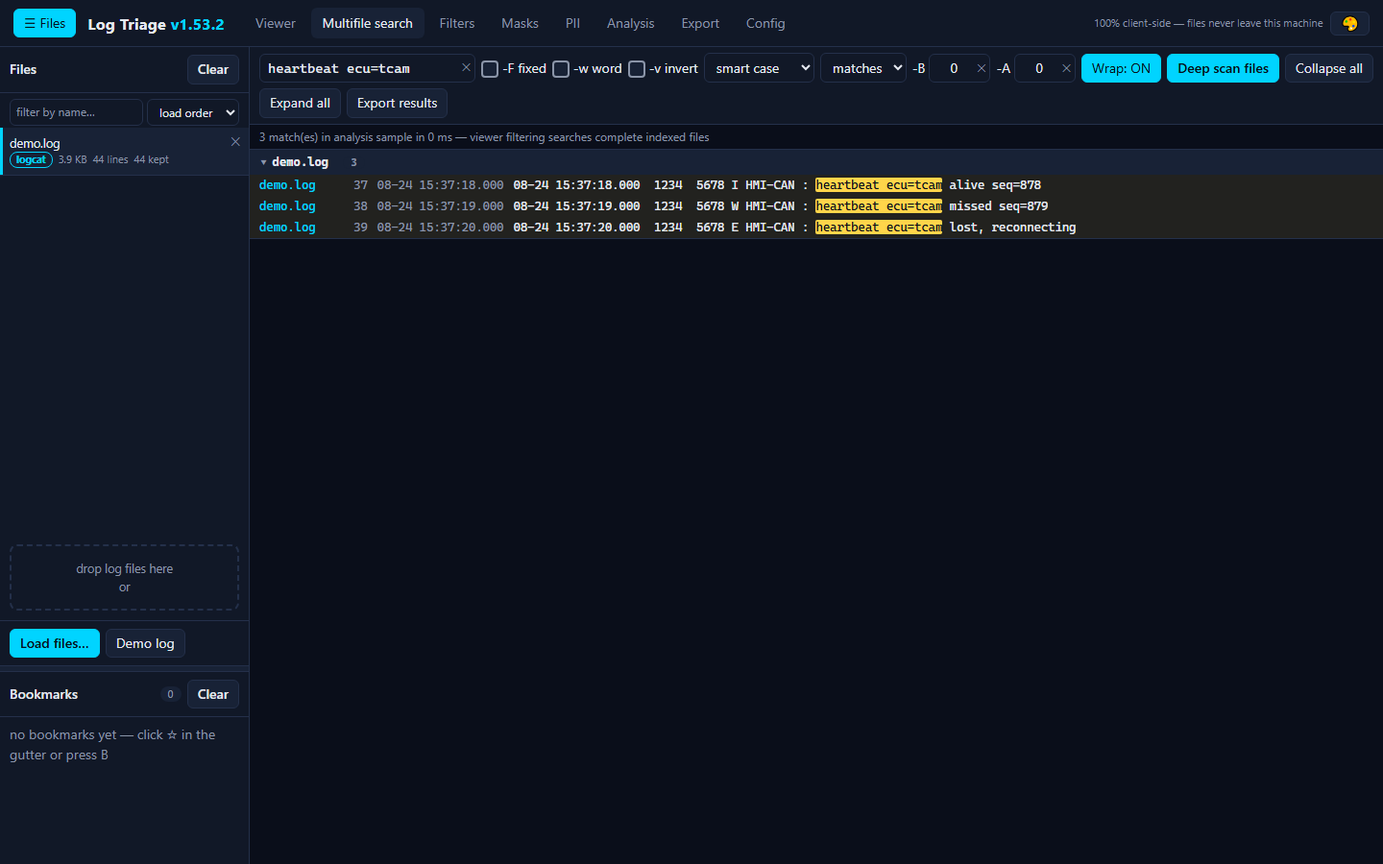
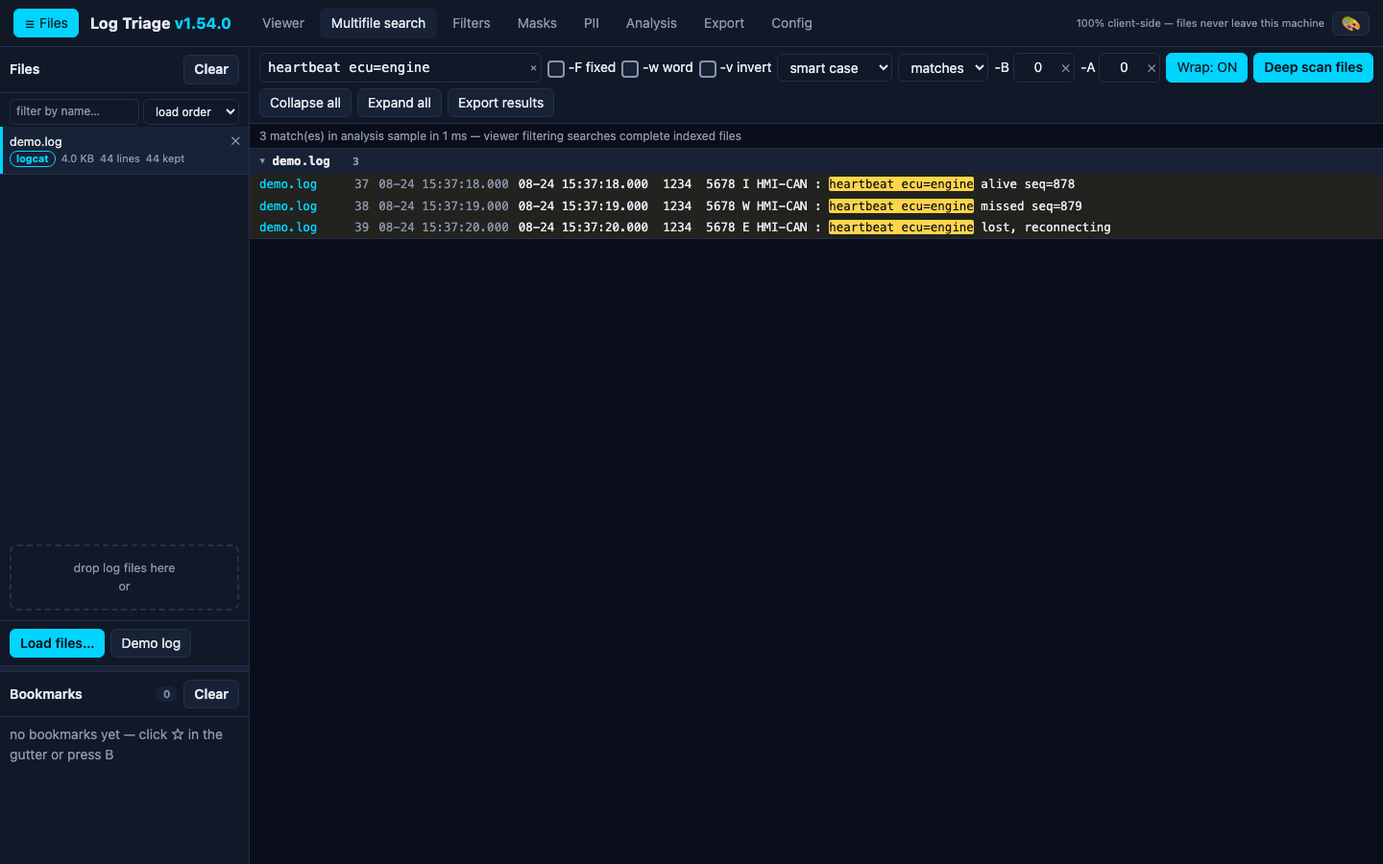
chore(repo): scrub internal project names and example identifiers
Replace the internal project/device branding (TCAM, kmesglog, umdplog,
lotus, driver.jung) across docs, source comments, fixtures, tools, and
the inlined selftest cases with generic equivalents, and swap the one
check-digit-valid example VIN for a clearly synthetic one. The demo log
and screenshots are regenerated from the scrubbed fixtures and the
single-file bundle is rebuilt so no branded string ships in the artifact.

diff --git a/log-triage.html b/log-triage.html
@@ -3883,7 +3883,7 @@ const LT_PAGING_WORKER = "/* Log Triage — util.js: small pure helpers shared b
       return extract7z(data, depth, base, name, onProgress);
     }
     if (type === 'tar') {
-      // some devices ship gzip bytes under a .tar name (TCAM kmesglog_*.tar):
+      // some devices ship gzip bytes under a .tar name:
       // sniff the gzip magic and decompress before the tar parse
       if (data.length > 2 && data[0] === 0x1f && data[1] === 0x8b) {
         onProgress('decompressing ' + name + '…');
@@ -5767,7 +5767,7 @@ const LT_PAGING_WORKER = "/* Log Triage — util.js: small pure helpers shared b
   const SAMPLES = {
     vin: 'VIN YV4AB9CD12EF34567', iban: 'IBAN DE89370400440532013000', card: 'card 4111 1111 1111 1111',
     ssn: 'ssn 123-45-6789', phoneIntl: 'call +46 70 123 45 67', phoneUs: 'call (555) 123-4567',
-    imei: 'IMEI 350774129305118', email: 'mail driver.jung@lotus-tech.example', serial: 'serial SN-A1B2C3D4E5F6',
+    imei: 'IMEI 350774129305118', email: 'mail driver@corp.example', serial: 'serial SN-A1B2C3D4E5F6',
     mac: 'mac aa:bb:cc:11:22:33', ipv4Private: 'host 192.168.1.104', ipv4Public: 'host 203.0.113.77',
     ipv6: 'link fe80::7a8b:cafe:1234:5678', gnss: 'fix 48.858400, 2.294500',
     subscriberId: 'subscriberId=41011223344', ssid: 'ssid=AndroidShare_4821',
@@ -7647,15 +7647,15 @@ const LT_PAGING_WORKER = "/* Log Triage — util.js: small pure helpers shared b
     eq(SRC.maskLine('card 2224 8888 7777 6666 declined'), 'card [card] declined');
     // vin: digit-only 17-char storage timestamps stay intact
     eq(SRC.maskLine('[OTA]storage time[2026090306444571Z]'), '[OTA]storage time[2026090306444571Z]');
-    // vin: digit-led real VIN still masks (letter within the first 8 chars)
-    eq(SRC.maskLine('vin 1FTFW1ET5DFC10324 ok'), 'vin 1FT**********0324 ok');
+    // vin: digit-led synthetic VIN still masks (letter within the first 8 chars)
+    eq(SRC.maskLine('vin 1A2B3C4D5E6F70324 ok'), 'vin 1A2**********0324 ok');
     // imei: constant-digit config values stay intact
     eq(SRC.maskLine('const 000000000000000 set'), 'const 000000000000000 set');
     eq(SRC.maskLine('const 111111111111111 set'), 'const 111111111111111 set');
   });
 
   T('mask', 'email keeps first local char and TLD', () => {
-    eq(SRC.maskLine('rejected for driver.jung@lotus-tech.example'), 'rejected for d***@***.example');
+    eq(SRC.maskLine('rejected for driver@corp.example'), 'rejected for d***@***.example');
   });
 
   T('mask', 'device serial keeps SN- prefix', () => {
@@ -8544,19 +8544,19 @@ const LT_PAGING_WORKER = "/* Log Triage — util.js: small pure helpers shared b
   T('issues', 'issueScan masks snippets via the maskText option (mask before slice)', () => {
     const mask = (t) => SRC.maskLine(String(t));
     const found = SRC.issueScan(recs([
-      '09-11 22:14:01.100  1000  2000 E Auth    : token refresh failed, credential rejected for driver.jung@lotus-tech.example',
+      '09-11 22:14:01.100  1000  2000 E Auth    : token refresh failed, credential rejected for driver@corp.example',
     ]), GROUPS, (id) => id, mask);
     eq(found.length, 1, 'auth group matches');
-    ok(!found[0].snippet.includes('driver.jung@lotus-tech.example'), 'raw email never rendered');
+    ok(!found[0].snippet.includes('driver@corp.example'), 'raw email never rendered');
     ok(found[0].snippet.includes('d***@***.example'), 'masked email in snippet: ' + found[0].snippet);
     // default (no maskText) keeps the legacy identity behavior
     const plain = SRC.issueScan(recs([
-      '09-11 22:14:01.100  1000  2000 E Auth    : token refresh failed for driver.jung@lotus-tech.example',
+      '09-11 22:14:01.100  1000  2000 E Auth    : token refresh failed for driver@corp.example',
     ]), GROUPS, (id) => id);
-    ok(plain[0].snippet.includes('driver.jung@'), 'identity default keeps snippet as-is');
+    ok(plain[0].snippet.includes('driver@'), 'identity default keeps snippet as-is');
     // mask runs BEFORE the 110-char slice: an email starting at char 105 leaks nothing
     const long = SRC.issueScan(recs([
-      'credential rejected ' + 'x'.repeat(84) + ' driver.jung@lotus-tech.example tail',
+      'credential rejected ' + 'x'.repeat(84) + ' driver@corp.example tail',
     ]), GROUPS, (id) => id, mask);
     eq(long.length, 1);
     ok(!long[0].snippet.includes('driver'), 'no raw local-part fragment past the slice boundary');
@@ -8624,8 +8624,8 @@ const LT_PAGING_WORKER = "/* Log Triage — util.js: small pure helpers shared b
 
   T('issues', 'anr event-log entries and force-finishing are flagged', () => {
     const found = SRC.issueScan(recs([
-      'I am_anr : [0,com.lotus.hmi/.MainActivity,100,803627610]',
-      'W ActivityManager: Force finishing activity ActivityRecord{abc u0 com.lotus.hmi/.Main t42}',
+      'I am_anr : [0,com.example.hmi/.MainActivity,100,803627610]',
+      'W ActivityManager: Force finishing activity ActivityRecord{abc u0 com.example.hmi/.Main t42}',
     ]), GROUPS, (id) => id);
     eq(found.length, 2);
     ok(found.every((f) => f.kind === 'anr'));
@@ -8655,7 +8655,7 @@ const LT_PAGING_WORKER = "/* Log Triage — util.js: small pure helpers shared b
 
   T('issues', 'issue scan false-positive guards', () => {
     const found = SRC.issueScan(recs([
-      'ActivityManager: Start proc 1234:com.lotus.hmi/u0a12 for activity',
+      'ActivityManager: Start proc 1234:com.example.hmi/u0a12 for activity',
       'AudioService: playback resumed after temporary suspension of audio focus',
       'SensorHub: resumed sensor batching',
       'D WifiHal: scan interval wake-up alarm scheduled',
@@ -8691,7 +8691,7 @@ const LT_PAGING_WORKER = "/* Log Triage — util.js: small pure helpers shared b
 </script>
 <script>
 /* Embedded demo log fixture (also used by tests/). */
-const LT_DEMO_LOG = "08-24 15:37:01.123  1234  5678 I ActivityManager: Start proc 1234:com.lotus.hmi/u0a12 for activity\n08-24 15:37:01.456  1234  5678 D HMI-CAN : VIN read: YV4AB9CD12EF34567 from ECU gateway\n08-24 15:37:01.789  2231  2245 I Netd    : client connected, uid=1027\n08-24 15:37:02.001  4310  4310 D WifiService: associated with AP ssid=AndroidShare_4821 bssid=aa:bb:cc:11:22:33\n08-24 15:37:02.240  4310  4355 I DhcpClient: lease 192.168.1.104/24 gw 192.168.1.1 dns 10.20.30.40\n08-24 15:37:02.512  4310  4355 W NetworkMonitor: validation failed for https://ota.lotus-tech.example, retry 3\n08-24 15:37:03.000  8891  8902 E Auth    : token refresh failed, credential rejected for driver.jung@lotus-tech.example\n08-24 15:37:03.220  8891  8902 E Auth    : subscriberId=410112233445566 not provisioned\n08-24 15:37:03.500  5152  5199 D GNSS    : position fix lat=48.858400 lon=2.294500 acc=3.2m sats=11\n08-24 15:37:03.700  5152  5199 D GNSS    : position fix lat=48.858412°N, 2.294511°E acc=2.9m sats=12\n08-24 15:37:04.000  1201  1201 I Zygote  : Forked child process 9876\n08-24 15:37:04.100  9876  9876 D BT      : bonded device CC:DD:EE:FF:00:11 type LE\n08-24 15:37:05.000  9877  9900 I Modem   : IMEI reported 350774129305118, card state READY\n08-24 15:37:06.000  1234  5700 W View    : requestLayout() improperly called\n08-24 15:37:07.000  1234  5700 E CR_OTA  : download stalled url=https://ota.example/pkg v2.41.3\n08-24 15:37:08.000  1234  5710 E AndroidRuntime: FATAL EXCEPTION: main\n08-24 15:37:08.000  1234  5710 E AndroidRuntime: Process: com.lotus.hmi, PID: 1234\n08-24 15:37:08.000  1234  5710 E AndroidRuntime: java.lang.NullPointerException: attempt to invoke virtual method on a null object reference\n08-24 15:37:08.000  1234  5710 E AndroidRuntime:     at com.lotus.hmi.MainActivity.renderCluster(MainActivity.java:312)\n08-24 15:37:08.000  1234  5710 E AndroidRuntime:     at com.lotus.hmi.ClusterView.onDraw(ClusterView.java:88)\n08-24 15:37:08.000  1234  5710 E AndroidRuntime:     at android.view.View.draw(View.java:20340)\n08-24 15:37:08.100  1234  1234 I Process : Sending signal. PID: 1234 SIG: 9\n08-24 15:37:08.500  1000  1000 I ActivityManager: Process com.lotus.hmi has died\n08-24 15:37:09.000  1000  1000 W ActivityManager: Force stopping com.lotus.hmi appid=10112\n08-24 15:37:10.000  1000  1420 E am_proc_died: [0,10112,com.lotus.hmi]\n08-24 15:37:11.000  1000  1420 I ActivityManager: ANR in com.lotus.cluster (com.lotus.cluster/.ClusterService)\n08-24 15:37:11.100  1000  1420 E ActivityManager: Input dispatching timed out (Waiting to send key event because the focused window has not finished)\n08-24 15:37:12.000  2001  2100 D CarServ : vehicleId=YV4ZZZCD12EF34567 paired to phone +46 70 123 45 67\n08-24 15:37:12.300  2001  2100 D CarServ : finance contract DE89370400440532013000 validated\n08-24 15:37:12.600  2001  2100 W CarServ : card 4111 1111 1111 1111 declined by payment provider\n08-24 15:37:13.000  2001  2100 I CarServ : owner ssn 123-45-6789 verified against registry\n08-24 15:37:14.000  2001  2100 D Telematics: post to https://telematics.example/v2 retry left=2\n08-24 15:37:14.500  2001  2100 E Telematics: socket timeout after 30000ms host 203.0.113.77\n08-24 15:37:15.000  3333  3344 D SensorHub: calibration done, serial SN-A1B2C3D4E5F6 stored\n08-24 15:37:16.000  3333  3344 W SensorHub: watchdog, miss=1\n08-24 15:37:17.000  1234  5678 D HMI-CAN : heartbeat ecu=gateway alive seq=1201\n08-24 15:37:18.000  1234  5678 I HMI-CAN : heartbeat ecu=tcam alive seq=878\n08-24 15:37:19.000  1234  5678 W HMI-CAN : heartbeat ecu=tcam missed seq=879\n08-24 15:37:20.000  1234  5678 E HMI-CAN : heartbeat ecu=tcam lost, reconnecting\n08-24 15:37:21.000  4310  4355 I WifiService: CONNECTED bssid=aa:bb:cc:11:22:33 rssi=-52\n08-24 15:37:22.000  4310  4355 D IpManager: probing link, ipv6 fe80::7a8b:cafe:1234:5678%wlan0\n08-24 15:37:23.000  9999  9999 V RenderThread: 60fps jank=0.8ms\n08-24 15:37:24.000  9999  9999 D ClusterGL: frame 12345 drawn in 6.2ms\n08-24 15:37:25.000  1234  5678 I BootReceiver: boot completed at uptime 42s\n";
+const LT_DEMO_LOG = "08-24 15:37:01.123  1234  5678 I ActivityManager: Start proc 1234:com.example.hmi/u0a12 for activity\n08-24 15:37:01.456  1234  5678 D HMI-CAN : VIN read: YV4AB9CD12EF34567 from ECU gateway\n08-24 15:37:01.789  2231  2245 I Netd    : client connected, uid=1027\n08-24 15:37:02.001  4310  4310 D WifiService: associated with AP ssid=AndroidShare_4821 bssid=aa:bb:cc:11:22:33\n08-24 15:37:02.240  4310  4355 I DhcpClient: lease 192.168.1.104/24 gw 192.168.1.1 dns 10.20.30.40\n08-24 15:37:02.512  4310  4355 W NetworkMonitor: validation failed for https://ota.corp.example, retry 3\n08-24 15:37:03.000  8891  8902 E Auth    : token refresh failed, credential rejected for driver@corp.example\n08-24 15:37:03.220  8891  8902 E Auth    : subscriberId=410112233445566 not provisioned\n08-24 15:37:03.500  5152  5199 D GNSS    : position fix lat=48.858400 lon=2.294500 acc=3.2m sats=11\n08-24 15:37:03.700  5152  5199 D GNSS    : position fix lat=48.858412°N, 2.294511°E acc=2.9m sats=12\n08-24 15:37:04.000  1201  1201 I Zygote  : Forked child process 9876\n08-24 15:37:04.100  9876  9876 D BT      : bonded device CC:DD:EE:FF:00:11 type LE\n08-24 15:37:05.000  9877  9900 I Modem   : IMEI reported 350774129305118, card state READY\n08-24 15:37:06.000  1234  5700 W View    : requestLayout() improperly called\n08-24 15:37:07.000  1234  5700 E CR_OTA  : download stalled url=https://ota.example/pkg v2.41.3\n08-24 15:37:08.000  1234  5710 E AndroidRuntime: FATAL EXCEPTION: main\n08-24 15:37:08.000  1234  5710 E AndroidRuntime: Process: com.example.hmi, PID: 1234\n08-24 15:37:08.000  1234  5710 E AndroidRuntime: java.lang.NullPointerException: attempt to invoke virtual method on a null object reference\n08-24 15:37:08.000  1234  5710 E AndroidRuntime:     at com.example.hmi.MainActivity.renderCluster(MainActivity.java:312)\n08-24 15:37:08.000  1234  5710 E AndroidRuntime:     at com.example.hmi.ClusterView.onDraw(ClusterView.java:88)\n08-24 15:37:08.000  1234  5710 E AndroidRuntime:     at android.view.View.draw(View.java:20340)\n08-24 15:37:08.100  1234  1234 I Process : Sending signal. PID: 1234 SIG: 9\n08-24 15:37:08.500  1000  1000 I ActivityManager: Process com.example.hmi has died\n08-24 15:37:09.000  1000  1000 W ActivityManager: Force stopping com.example.hmi appid=10112\n08-24 15:37:10.000  1000  1420 E am_proc_died: [0,10112,com.example.hmi]\n08-24 15:37:11.000  1000  1420 I ActivityManager: ANR in com.example.cluster (com.example.cluster/.ClusterService)\n08-24 15:37:11.100  1000  1420 E ActivityManager: Input dispatching timed out (Waiting to send key event because the focused window has not finished)\n08-24 15:37:12.000  2001  2100 D CarServ : vehicleId=YV4ZZZCD12EF34567 paired to phone +46 70 123 45 67\n08-24 15:37:12.300  2001  2100 D CarServ : finance contract DE89370400440532013000 validated\n08-24 15:37:12.600  2001  2100 W CarServ : card 4111 1111 1111 1111 declined by payment provider\n08-24 15:37:13.000  2001  2100 I CarServ : owner ssn 123-45-6789 verified against registry\n08-24 15:37:14.000  2001  2100 D Telematics: post to https://telematics.example/v2 retry left=2\n08-24 15:37:14.500  2001  2100 E Telematics: socket timeout after 30000ms host 203.0.113.77\n08-24 15:37:15.000  3333  3344 D SensorHub: calibration done, serial SN-A1B2C3D4E5F6 stored\n08-24 15:37:16.000  3333  3344 W SensorHub: watchdog, miss=1\n08-24 15:37:17.000  1234  5678 D HMI-CAN : heartbeat ecu=gateway alive seq=1201\n08-24 15:37:18.000  1234  5678 I HMI-CAN : heartbeat ecu=engine alive seq=878\n08-24 15:37:19.000  1234  5678 W HMI-CAN : heartbeat ecu=engine missed seq=879\n08-24 15:37:20.000  1234  5678 E HMI-CAN : heartbeat ecu=engine lost, reconnecting\n08-24 15:37:21.000  4310  4355 I WifiService: CONNECTED bssid=aa:bb:cc:11:22:33 rssi=-52\n08-24 15:37:22.000  4310  4355 D IpManager: probing link, ipv6 fe80::7a8b:cafe:1234:5678%wlan0\n08-24 15:37:23.000  9999  9999 V RenderThread: 60fps jank=0.8ms\n08-24 15:37:24.000  9999  9999 D ClusterGL: frame 12345 drawn in 6.2ms\n08-24 15:37:25.000  1234  5678 I BootReceiver: boot completed at uptime 42s\n";
 </script>
 <div id="archive-progress"><div class="box"><div class="spinner"></div><div class="msg" id="archive-progress-msg">processing…</div></div></div>
 </body>

diff --git a/tests/core-cases.js b/tests/core-cases.js
@@ -358,15 +358,15 @@
     eq(SRC.maskLine('card 2224 8888 7777 6666 declined'), 'card [card] declined');
     // vin: digit-only 17-char storage timestamps stay intact
     eq(SRC.maskLine('[OTA]storage time[2026090306444571Z]'), '[OTA]storage time[2026090306444571Z]');
-    // vin: digit-led real VIN still masks (letter within the first 8 chars)
-    eq(SRC.maskLine('vin 1FTFW1ET5DFC10324 ok'), 'vin 1FT**********0324 ok');
+    // vin: digit-led synthetic VIN still masks (letter within the first 8 chars)
+    eq(SRC.maskLine('vin 1A2B3C4D5E6F70324 ok'), 'vin 1A2**********0324 ok');
     // imei: constant-digit config values stay intact
     eq(SRC.maskLine('const 000000000000000 set'), 'const 000000000000000 set');
     eq(SRC.maskLine('const 111111111111111 set'), 'const 111111111111111 set');
   });
 
   T('mask', 'email keeps first local char and TLD', () => {
-    eq(SRC.maskLine('rejected for driver.jung@lotus-tech.example'), 'rejected for d***@***.example');
+    eq(SRC.maskLine('rejected for driver@corp.example'), 'rejected for d***@***.example');
   });
 
   T('mask', 'device serial keeps SN- prefix', () => {
@@ -1255,19 +1255,19 @@
   T('issues', 'issueScan masks snippets via the maskText option (mask before slice)', () => {
     const mask = (t) => SRC.maskLine(String(t));
     const found = SRC.issueScan(recs([
-      '09-11 22:14:01.100  1000  2000 E Auth    : token refresh failed, credential rejected for driver.jung@lotus-tech.example',
+      '09-11 22:14:01.100  1000  2000 E Auth    : token refresh failed, credential rejected for driver@corp.example',
     ]), GROUPS, (id) => id, mask);
     eq(found.length, 1, 'auth group matches');
-    ok(!found[0].snippet.includes('driver.jung@lotus-tech.example'), 'raw email never rendered');
+    ok(!found[0].snippet.includes('driver@corp.example'), 'raw email never rendered');
     ok(found[0].snippet.includes('d***@***.example'), 'masked email in snippet: ' + found[0].snippet);
     // default (no maskText) keeps the legacy identity behavior
     const plain = SRC.issueScan(recs([
-      '09-11 22:14:01.100  1000  2000 E Auth    : token refresh failed for driver.jung@lotus-tech.example',
+      '09-11 22:14:01.100  1000  2000 E Auth    : token refresh failed for driver@corp.example',
     ]), GROUPS, (id) => id);
-    ok(plain[0].snippet.includes('driver.jung@'), 'identity default keeps snippet as-is');
+    ok(plain[0].snippet.includes('driver@'), 'identity default keeps snippet as-is');
     // mask runs BEFORE the 110-char slice: an email starting at char 105 leaks nothing
     const long = SRC.issueScan(recs([
-      'credential rejected ' + 'x'.repeat(84) + ' driver.jung@lotus-tech.example tail',
+      'credential rejected ' + 'x'.repeat(84) + ' driver@corp.example tail',
     ]), GROUPS, (id) => id, mask);
     eq(long.length, 1);
     ok(!long[0].snippet.includes('driver'), 'no raw local-part fragment past the slice boundary');
@@ -1335,8 +1335,8 @@
 
   T('issues', 'anr event-log entries and force-finishing are flagged', () => {
     const found = SRC.issueScan(recs([
-      'I am_anr : [0,com.lotus.hmi/.MainActivity,100,803627610]',
-      'W ActivityManager: Force finishing activity ActivityRecord{abc u0 com.lotus.hmi/.Main t42}',
+      'I am_anr : [0,com.example.hmi/.MainActivity,100,803627610]',
+      'W ActivityManager: Force finishing activity ActivityRecord{abc u0 com.example.hmi/.Main t42}',
     ]), GROUPS, (id) => id);
     eq(found.length, 2);
     ok(found.every((f) => f.kind === 'anr'));
@@ -1366,7 +1366,7 @@
 
   T('issues', 'issue scan false-positive guards', () => {
     const found = SRC.issueScan(recs([
-      'ActivityManager: Start proc 1234:com.lotus.hmi/u0a12 for activity',
+      'ActivityManager: Start proc 1234:com.example.hmi/u0a12 for activity',
       'AudioService: playback resumed after temporary suspension of audio focus',
       'SensorHub: resumed sensor batching',
       'D WifiHal: scan interval wake-up alarm scheduled',

diff --git a/tests/archive.test.js b/tests/archive.test.js
@@ -497,23 +497,23 @@ test('extractArchive unpacks tar and nested tar.gz entries', { skip: !hasStreams
 });
 
 test('extractArchive unpacks a top-level tar.gz and tgz', { skip: !hasStreams }, async () => {
-  const tarBuf = ar.writeTar([{ name: 'tcam.log', data: new TextEncoder().encode('tcam backup line\n') }]);
+  const tarBuf = ar.writeTar([{ name: 'device.log', data: new TextEncoder().encode('device backup line\n') }]);
   for (const name of ['217.tar.gz', '217.tgz']) {
     const gz = await ar.gzipData(tarBuf);
     const out = await ar.extractArchive(name, gz);
     assert.strictEqual(out.length, 1, name + ': one entry');
-    assert.strictEqual(out[0].name, '217/tcam.log', name + ': path prefix kept');
-    assert.strictEqual(new TextDecoder().decode(out[0].data), 'tcam backup line\n');
+    assert.strictEqual(out[0].name, '217/device.log', name + ': path prefix kept');
+    assert.strictEqual(new TextDecoder().decode(out[0].data), 'device backup line\n');
   }
 });
 
 test('extractArchive decompresses a gzip payload misnamed .tar', { skip: !hasStreams }, async () => {
-  // some devices (e.g. TCAM kmesglog_*.tar) ship gzip bytes with a .tar name
-  const tarBuf = ar.writeTar([{ name: 'kmesg.log', data: new TextEncoder().encode('kernel ring buffer line\n') }]);
+  // some devices ship gzip bytes with a .tar name
+  const tarBuf = ar.writeTar([{ name: 'kernel.log', data: new TextEncoder().encode('kernel ring buffer line\n') }]);
   const gz = await ar.gzipData(tarBuf);
-  const out = await ar.extractArchive('kmesglog_2026-05-20-17-41-41_0006.tar', gz);
+  const out = await ar.extractArchive('kernellog_2026-05-20.tar', gz);
   assert.strictEqual(out.length, 1);
-  assert.strictEqual(out[0].name, 'kmesglog_2026-05-20-17-41-41_0006/kmesg.log');
+  assert.strictEqual(out[0].name, 'kernellog_2026-05-20/kernel.log');
   assert.strictEqual(new TextDecoder().decode(out[0].data), 'kernel ring buffer line\n');
 });
 

diff --git a/src/app.js b/src/app.js
@@ -1486,7 +1486,7 @@
   const SAMPLES = {
     vin: 'VIN YV4AB9CD12EF34567', iban: 'IBAN DE89370400440532013000', card: 'card 4111 1111 1111 1111',
     ssn: 'ssn 123-45-6789', phoneIntl: 'call +46 70 123 45 67', phoneUs: 'call (555) 123-4567',
-    imei: 'IMEI 350774129305118', email: 'mail driver.jung@lotus-tech.example', serial: 'serial SN-A1B2C3D4E5F6',
+    imei: 'IMEI 350774129305118', email: 'mail driver@corp.example', serial: 'serial SN-A1B2C3D4E5F6',
     mac: 'mac aa:bb:cc:11:22:33', ipv4Private: 'host 192.168.1.104', ipv4Public: 'host 203.0.113.77',
     ipv6: 'link fe80::7a8b:cafe:1234:5678', gnss: 'fix 48.858400, 2.294500',
     subscriberId: 'subscriberId=41011223344', ssid: 'ssid=AndroidShare_4821',

diff --git a/src/archive.js b/src/archive.js
@@ -467,7 +467,7 @@
       return extract7z(data, depth, base, name, onProgress);
     }
     if (type === 'tar') {
-      // some devices ship gzip bytes under a .tar name (TCAM kmesglog_*.tar):
+      // some devices ship gzip bytes under a .tar name:
       // sniff the gzip magic and decompress before the tar parse
       if (data.length > 2 && data[0] === 0x1f && data[1] === 0x8b) {
         onProgress('decompressing ' + name + '…');

diff --git a/docs/test-plan.md b/docs/test-plan.md
@@ -144,13 +144,13 @@ App suite (99 specs) — coverage includes:
 31.7 Detail drawer: `pid / tid` share one line; on a PII line the body is the masked text labeled "masked" with a ▸/▾ chevron that lazily expands the raw line (collapsed by default, absent from the DOM while collapsed) and removes it again on collapse; on a PII-free line the body is the raw text labeled "raw" with no chevron; the toolbar Drawer toggle (on by default) gates the drawer entirely.
 32. Drag-and-drop of a file onto the dropzone ingests it exactly once (the drop handler stops propagation; the body-level drop handler is for drops elsewhere on the page). Drag-and-drop of a FOLDER ingests the contained files recursively (mocked `webkitGetAsEntry` tree with a nested subfolder and batched `readEntries`): folder-relative names are kept, the folder pseudo-entry itself is not ingested. Dropping MULTIPLE folders plus a loose file in one drop ingests all of them (two folders, a nested subfolder, and a loose file = 5 files / 5 lines).
 33. Real Android bugreport zip (local file, not in CI): 155 MB zip with 315 entries incl. a 1.5 GB dumpstate_board.bin — the board dump is stream-converted to a capped 64 MB `dumpstate_board.bin.log` text entry (newest text, CRC verified, no NUL bytes), ~314 text entries load recursively (301+ file items), and the bugreport text is searchable (verified locally against bugreport-gecko_gas zips; also validated in Node: 555,930-line 88 MB merged logcat batch ingests with exact counts; Node re-verification of the 1.6 GB board dump: 328 entries in ~35 s, ~900 MB peak RSS, 666k log lines extracted).
-34. Real TCAM log set (local folder, not in CI): 241 archives (`backup/*.tar.gz` × 172, `umdplog/kmesglog_*.tar` × 68 misnamed-gzip, plus 1) all extract in Node — 4,502 entries / 6.88 GB expanded text in ~26 s, zero failures; the kmesglog tars decompress via gzip-magic sniffing and yield kernel ring-buffer logs.
+34. Real-world local log set (local folder, not in CI): 241 archives (`backup/*.tar.gz` × 172, misnamed-gzip device `*.tar` × 68, plus 1) all extract in Node — 4,502 entries / 6.88 GB expanded text in ~26 s, zero failures; the misnamed tars decompress via gzip-magic sniffing and yield kernel ring-buffer logs.
 35. Real 88 MB / 555,930-line logcat through the actual paging-worker code path (Node harness, `tests/tmp/large-file-check.cjs`): index in ~2.5 s with exact level counters; unfiltered view = all 555,930 lines (previously capped at ~100k); quick filter re-stream returns every match (236 for the reported SEAT_OCCU/Bluetooth pattern) in ~2 s; page fetch ~20 ms; go-to-line 450002 resolves to its view position in ~0.7 s.
 36. Color highlighter editor: the pattern field accepts real click/typing input and retains focus; literal matching colors text, row mode tints the complete row, a one-click palette color is visibly selected, the shown-line count is unchanged, and the rule/color survive reload.
 37. Highlighter config round trip: JSON export preserves every rule field (`name`, `pattern`, `caseSensitive`, `action`, `enabled`, `matchMode`, `target`, `color`) and import restores the same editor state.
 38. Rule-editor layout regressions: disabling a rule while Filters is visible must return to a Viewer filled beyond the five hidden-tab overscan rows, and repeated pattern-field focus/edit/rerender cycles must not change the input or column width.
 39. dlt-viewer text export (`tests/fixtures/dlt-viewer-sample.txt`, 42 messages): detected as format `dlt` (badge), chips count every level exactly (F1, V4 among them), the drawer on the VIN line shows tag `appid:ctid` and the session id as pid, masking applies to the raw VIN in the drawer, the sanitized `.log` export carries only the masked VIN, and the quick filter narrows to the bridge11 lines. Parser/detection semantics (including false-positive pins against logcat/syslog/ISO/CLF/MM-DD in both directions and the mode-word/args payload boundary) plus GNSS key-value pairs (v1.44.2: lat=/lon: token separators mask, non-coordinate words stay safe; the colon guard keeps DLT time columns intact — on the 31 real exports the old rule ate 13,893 lines, the guarded rule hits only the 1,831 genuine payload coordinates). Mask-rule guards (v1.44.4, `[mask] rule guards` case): the card rule requires a plausible IIN first digit (2-6) so ECUC config quads never mask (2,444 false-positive lines → 0), the VIN rule requires a letter within its first 8 characters so digit-only storage timestamps never mask, and the IMEI rule rejects 15 identical digits; on the real exports total masked lines dropped 8,726 → 6,296 with every remaining hit a true identifier (audit tool: `tests/tmp/mask-audit.cjs`) live in the shared self-test cases (`[detect]`, `[ts]`, `[parse]` DLT entries).
-40. Real dlt-viewer text exports (local folder, not in CI): 31 converted TCAM `.dlt` capture files validated via `node tests/tmp/dlt-real-check.cjs [dir]` (harness untracked like `large-file-check.cjs`; default dir `C:/Users/Chimin.Jung/Downloads/DLT`) — 2,061,084 / 2,061,084 lines parsed as structured records (100%, zero fallback), detection `dlt` at confidence 1.00 on every file, level tally I 997,399 / F 826,574 / E 236,061 / W 1,050 (the ECUC configuration logs genuinely are written at DLT fatal level, and this capture contains no debug/verbose/trace words). The exports are CRLF: the pipeline's trailing-CR strip in `byteLines`/`page`/`streamLines` is what the `$`-anchored dlt line regex relies on, mirroring every other format.
+40. Real dlt-viewer text exports (local folder, not in CI): 31 converted `.dlt` capture files validated via `node tests/tmp/dlt-real-check.cjs [dir]` (harness untracked like `large-file-check.cjs`; directory passed as an argument) — 2,061,084 / 2,061,084 lines parsed as structured records (100%, zero fallback), detection `dlt` at confidence 1.00 on every file, level tally I 997,399 / F 826,574 / E 236,061 / W 1,050 (the ECUC configuration logs genuinely are written at DLT fatal level, and this capture contains no debug/verbose/trace words). The exports are CRLF: the pipeline's trailing-CR strip in `byteLines`/`page`/`streamLines` is what the `$`-anchored dlt line regex relies on, mirroring every other format.
 41. Interactive PII census: census cards are buttons with `aria-expanded`; opening one shows the inline sample panel ("VIN · 2 matches · showing 2 example lines") with masked previews only (still masked while the viewer mask toggle is off), opening a second card closes the first and the panel head is scrolled into the viewport (a 1280×600 viewport pins the below-fold case), Enter toggles a focused card, a sample's "Show in viewer" jumps to the line (viewer tab, selected row, drawer). Shared self-test cases pin the model: per-match counting with single-sampled lines, the 25-sample cap with full counts, custom rules under their configured names, broken custom rules skipped, zero-count rules omitted, zero-length-match loop guard. Scope change with demo.log + a 27-VIN synthetic file: "All files" shows VIN · 29 matches capped at 25 rows, scoping to either file keeps the category open and rescopes counts; the VIN-only file renders exactly one card.
 42. Text encoding (v1.46.0, FR-2 AC-5): a BOM'd logcat file indexes with `utf8: true`, the BOM never reaches the parser (first record has its real timestamp, `firstLine` is clean), and a latin-1 file (0xE9 byte) flags `utf8: false` while lines still split and count (unit, `tests/paged.test.js`). E2e: the latin-1 file gets an `enc?` badge with an explanatory title in the files panel; a clean UTF-8 file loaded alongside gets none. `boardBinToText` keeps valid UTF-8 CJK runs (well-formed multi-byte sequences count toward the 80% printable bar) while runs with invalid high bytes are still rejected (unit, `tests/archive.test.js`).
 43. Analysis mask-toggle respect (v1.46.1, FR-9 AC-6): with Mask ON the demo analysis tab shows the masked email (d***@***.example) in issue-scan snippets and top-message shapes and the raw address nowhere in the tab; toggling Mask OFF and re-entering the tab shows the raw text (toggle honored, not always-masked); the shared self-test case pins issueScan maskText — including mask-before-slice for an email straddling the 110-char snippet boundary (no raw local-part fragment leaks).

diff --git a/README.md b/README.md
@@ -68,7 +68,7 @@ Highlighters are additive presentation rules: they never remove lines or change 
 - **Filter engine and color highlighters** — ordered rules support include (OR), exclude (subtractive), and additive highlighting. Highlight rules can use literal text or regex, paint matching text or the whole row, choose any color, and remain independent of the shown-line count. Rules persist in presets and configuration exports. Dynamic level chips are generated from the levels actually observed in each load, and an inclusive time range narrows the view by timestamp prefix comparison.
 - **Analysis tab** — level bars, top tags, top messages via pattern normalization (numbers/hex/UUIDs stripped to cluster similar lines), a canvas time histogram with y-axis gridlines and value ticks, x-axis time labels, and a hover tooltip (count + time range; device-pixel-ratio aware), issue scanning for crashes/ANRs/process deaths/connectivity/auth problems (the auth group also detects `failed password` and `password check failed`) plus built-in groups for suspend-to-RAM transitions and failures (kernel `PM: suspend entry/exit`, wake reasons, `Freeze of tasks` aborts, `abort_suspend`), native crash signals (`Fatal signal`, `crash_dump`, kernel panic), memory pressure (lmkd/lowmemorykiller/OOM), ANR event-log records (`am_anr`, `Force finishing`), binder transaction failures, SELinux denials (`avc: denied`, `SecurityException`), watchdog kills, thermal throttling/shutdown, storage exhaustion (`ENOSPC`, `INSTALL_FAILED`), boot loops/restart reasons, and modem subsystem restarts — 14 groups total, each individually toggleable and editable, an issue-scan rule editor (enable, edit kind and case-insensitive pattern, delete, add-rule, restore-defaults; bad patterns skipped safely; saved in state and presets), an interactive PII census (clickable per-rule cards with `aria-expanded` open an inline sample panel — counts cover every match while at most 25 always-masked example lines are listed per category, custom rules included, and each example's Show-in-viewer jumps to the line), and per-file comparison — all scopeable via a file selector (`All files (N)` or one file), with issue entries that click-jump to the line.
 - **Viewer** — paged virtualized rendering over every indexed line (500-row pages that grow into a seamless scroll — wheeling past a page edge appends or prepends the next page without a jump, the view stays bounded to a 5-page (2,500-row) sliding window, and the pager bar — First/Previous/page number/Next/Last and a matching-lines range — reflects the anchor page; the pager buttons, keyboard paging, go-to-line and result jumps still load exactly one page), **start/end-of-log bands** inside the scroll area (a "▲ start of …" band when the visible window includes the log's first line and a "▼ end of … — N lines" band when it includes the last matching line, per-file or merged, so pagination never leaves you guessing where the log begins or ends; with active filters the bands read "first/last match in … — source line N" instead of claiming physical file bounds, and their labels stay pinned into the visible viewport with long lines), a busy overlay with live percentages and Cancel covering indexing, filtering and page loads, merged-timeline and per-file views, wrap toggle with estimated heights corrected by measuring only rendered rows (extremely long lines display a 2,000-character preview with click-to-open full text in the drawer), six themes (Midnight default, Paper, Solarized Dark, Solarized Light, Monokai, High Contrast) switched from a compact 🎨 icon dropdown in the header, severity badges with W/E/F row tint, multiline selection and copy (click anchor, shift-click range, ctrl-click toggle, ctrl+A; copy with optional `file:lineNo:` prefixes; the selection is keyed to line identity and survives scrolling and page jumps — rows selected but outside the visible window stay stored without a highlight and are excluded from the count and copy until they re-enter, Esc clears everything), bookmarks with notes persisted by file identity, a sidebar bookmarks panel (entry list with per-entry ✕ remove, jump-to-line, count pill, and a Clear button that wipes all bookmarks in one click; collapsible with a drag-resize handle), a ★ only-bookmarks chip in the level-chips row (★ + live bookmarked count; appears when bookmarks exist in scope, click toggles the filter; re-filters live), a detail drawer with a **Drawer: ON/OFF** toolbar toggle (persisted; OFF keeps line clicks selection-only so highlighted text can be copied without the drawer covering it), and a **Zen mode**: the toolbar Zen button hides header, files panel, chips, toolbar, pager and status bar so the log viewer fills the whole window — a brief hint and a faint floating ✕ Zen button (full opacity on hover) show how to leave, and Esc exits too; Zen is session-only, so a reload never starts hidden.
-- **Compressed archives (.gz / .tar / .tar.gz / .tgz / .zip / .7z)** — archives are decompressed recursively during load (depth-capped, with progress) and each contained log flows through the normal pipeline; entries keep their archive-relative paths (`bundle/sub/b.log`), and CRC32 digests are verified during 7z/zip extraction so corrupt payloads fail loudly. Top-level `.tar.gz`/`.tgz` bundles extract like any other archive, and a `.tar` file that actually carries gzip bytes (misnamed by the device — seen in TCAM `kmesglog_*.tar`) is detected by magic and decompressed before parsing. Entries over 512 MB are skipped with an announced message — except Android bugreport `dumpstate_board.bin` ramdumps (typically 1.5 GB of binary with embedded text logs): they are stream-converted into a capped 64 MB `dumpstate_board.bin.log` text entry (newest text wins, CRC verified while streaming, the inflated blob never materialized), so the board's logcat/kernel history becomes searchable. `.7z` support is a pure-JS decoder (Copy, LZMA, LZMA2, Deflate coders; plain and compressed headers) — no WASM, no CDN; encrypted or filter-chained archives fail with readable errors.
+- **Compressed archives (.gz / .tar / .tar.gz / .tgz / .zip / .7z)** — archives are decompressed recursively during load (depth-capped, with progress) and each contained log flows through the normal pipeline; entries keep their archive-relative paths (`bundle/sub/b.log`), and CRC32 digests are verified during 7z/zip extraction so corrupt payloads fail loudly. Top-level `.tar.gz`/`.tgz` bundles extract like any other archive, and a `.tar` file that actually carries gzip bytes (misnamed by some devices) is detected by magic and decompressed before parsing. Entries over 512 MB are skipped with an announced message — except Android bugreport `dumpstate_board.bin` ramdumps (typically 1.5 GB of binary with embedded text logs): they are stream-converted into a capped 64 MB `dumpstate_board.bin.log` text entry (newest text wins, CRC verified while streaming, the inflated blob never materialized), so the board's logcat/kernel history becomes searchable. `.7z` support is a pure-JS decoder (Copy, LZMA, LZMA2, Deflate coders; plain and compressed headers) — no WASM, no CDN; encrypted or filter-chained archives fail with readable errors.
 - **Export sanitized** — `.log`/`.txt` (with `[Ln]` or `file:lineNo:` prefixes), `.csv`, `.json`, rg search results, bookmarks, and selection-only export. Text/csv/json exports cover **every matching line of the current filtered view** (walked from the paging worker with progress), not just the rendered page. Filenames are timestamped `YYYY-MM-DD_HHmmss`. The extract can also be re-packed as an archive mirroring the loaded structure: `.zip`, `.tar.gz`, and `.tar` **stream straight to the saved file** (any size, direct-save browsers), while `.7z` (stored container, no recompression) stays bounded to a 32 MiB buffer.
 - **Presets** — named filter/mask/search-flag sets persisted in localStorage with JSON import/export.
 - **File removal** — per-file ✕ buttons in the files panel drop a file's lines, counters, and level-chip contribution (clear-all uses the same path); removing a file also clears its bookmarks and purges its cache entry.

diff --git a/docs/requirements.md b/docs/requirements.md
@@ -255,7 +255,7 @@ Status: implemented (v1.17.x). Zip extraction was completed and 7z support added
 
 Log files often arrive packed, so the ingestion pipeline transparently looks inside archives: when a loaded file's name ends in `.gz`, `.tar`, `.tar.gz`/`.tgz`, `.zip`, or `.7z`, it is decompressed and each contained file flows through the same pipeline (detection, parsing, filtering, masking) as a regular file. Extraction is recursive without a depth limit — a `.7z` containing a `.tar.gz` containing a `.log` is unpacked fully — with per-entry progress shown in the archive progress overlay and the global cancel honored.
 
-- AC-1: gzip is decoded with the native `DecompressionStream`; tar is parsed and written by a pure-JS implementation; zip entries are read from the central directory with stored (method 0) and deflate (method 8) payloads inflated via `DecompressionStream('deflate-raw')`. Top-level `.tar.gz`/`.tgz` archives gunzip into the tar parser, and a `.tar` payload that is actually gzip (misnamed by the device, e.g. TCAM `kmesglog_*.tar`) is detected by its `1f 8b` magic and decompressed before the tar parse.
+- AC-1: gzip is decoded with the native `DecompressionStream`; tar is parsed and written by a pure-JS implementation; zip entries are read from the central directory with stored (method 0) and deflate (method 8) payloads inflated via `DecompressionStream('deflate-raw')`. Top-level `.tar.gz`/`.tgz` archives gunzip into the tar parser, and a `.tar` payload that is actually gzip (misnamed by some devices) is detected by its `1f 8b` magic and decompressed before the tar parse.
 - AC-2: `.7z` archives are parsed by a pure-JS container reader (`src/format-7z.js`): signature header with CRC32 verification, plain and `kEncodedHeader` (compressed) headers, pack info, folder/coder descriptions, substream sizes, CRC digests, file names (UTF-16), and empty files/directories. Codec support: Copy, LZMA (`03 01 01`), LZMA2 (`21`, via `src/lzma.js`), and Deflate (`03 04 01`). Encrypted (AES) archives, coder chains (delta/BCJ), and zip64 entries fail with explicit, readable errors.
 - AC-3: The LZMA decoder is pure JavaScript (no WASM, no CDN, single-file constraint preserved): a canonical range decoder and probability model for LZMA1 raw streams plus the chunked LZMA2 wrapper (stored chunks `0x01/0x02`, continuation chunks `0x80..0xDF` that carry decoder state across chunks, and full-reset chunks `0xE0..0xFF` with a fresh properties byte).
 - AC-4: Every extracted entry keeps its archive-relative path (`bundle/a.log`, `bundle/sub/b.log`) and recurses; CRC32 digests defined by the archive are verified after decoding, so corrupt payloads surface a CRC error instead of silent garbage. Entries other than board dumps larger than 512 MB uncompressed are skipped with an announced progress message instead of exhausting memory.
